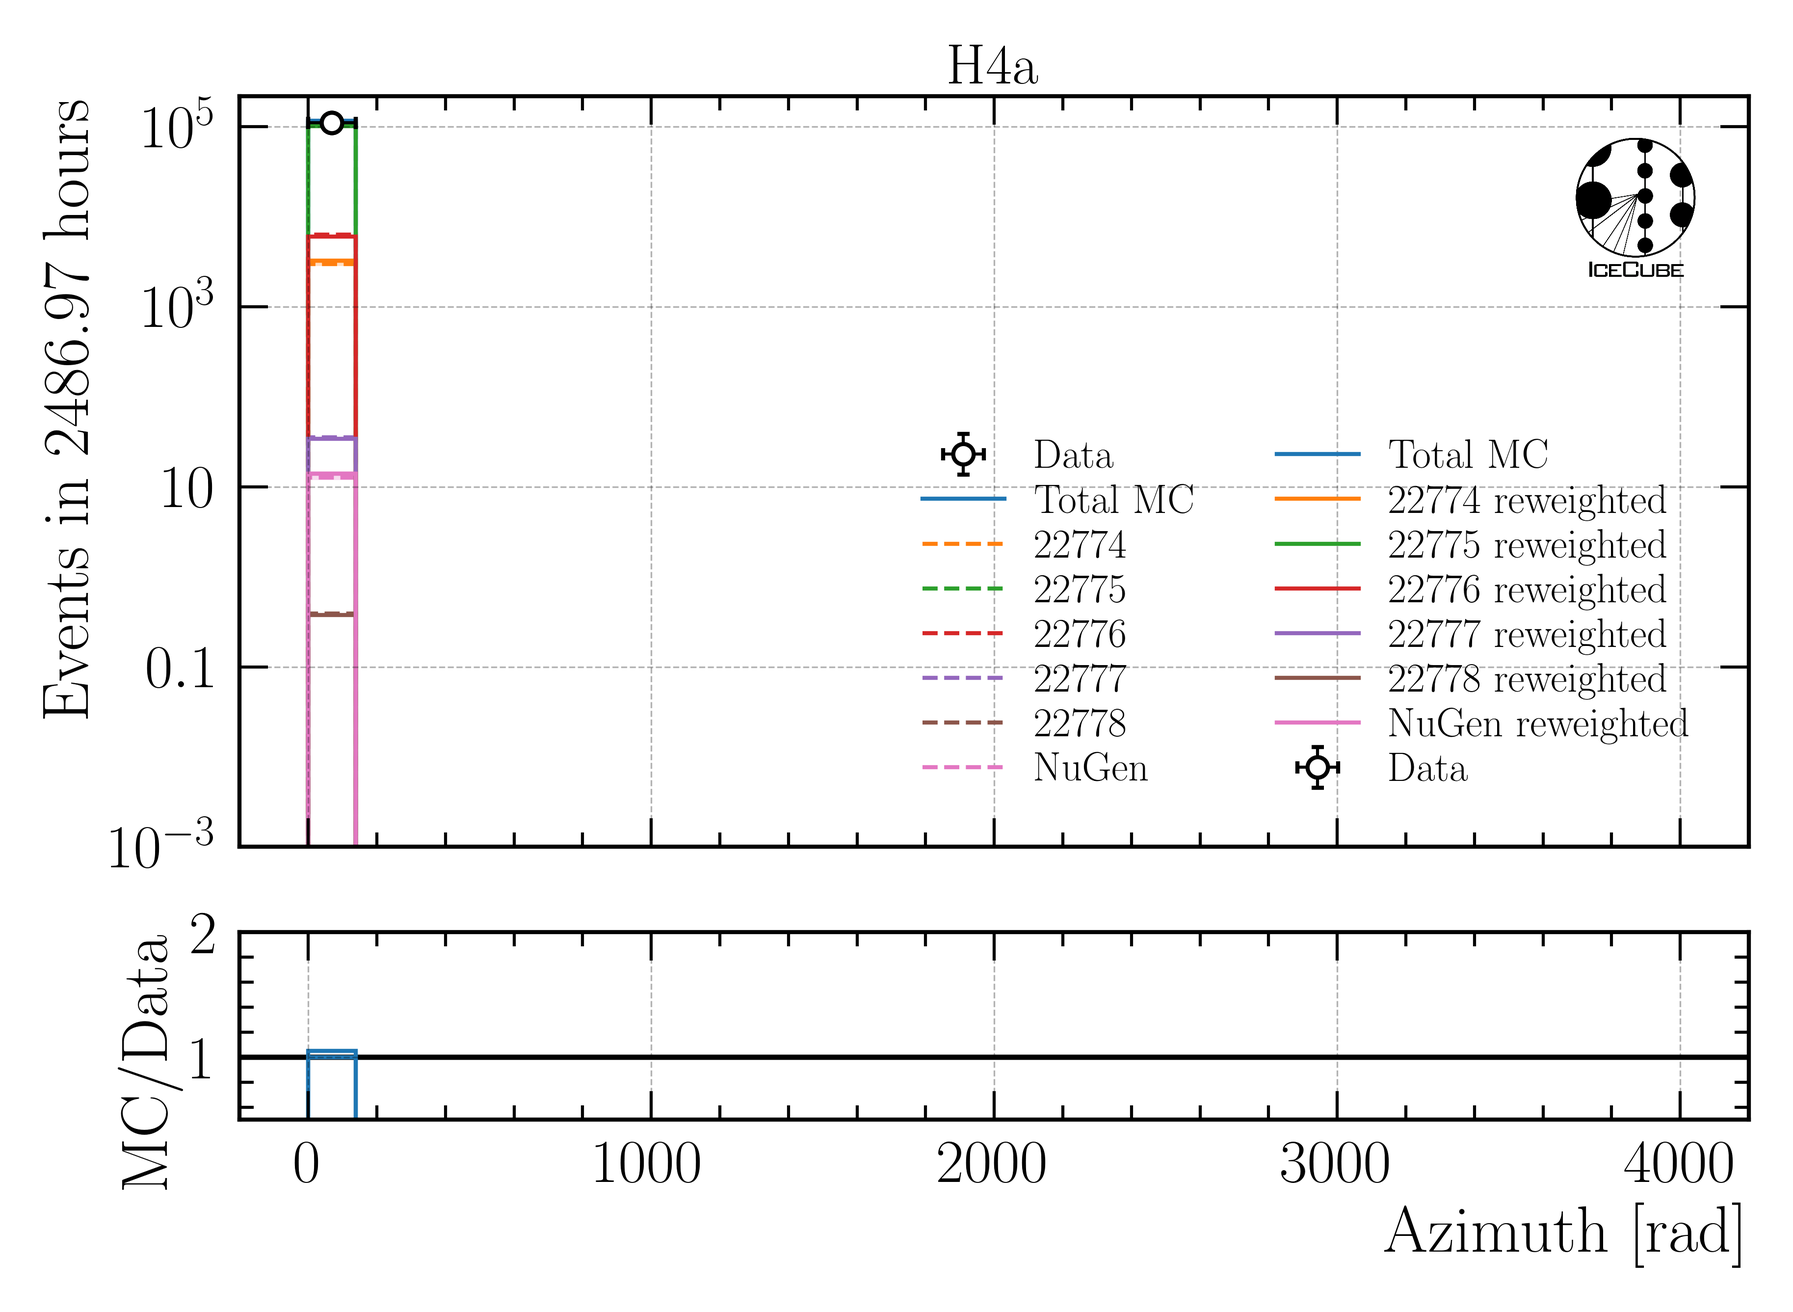
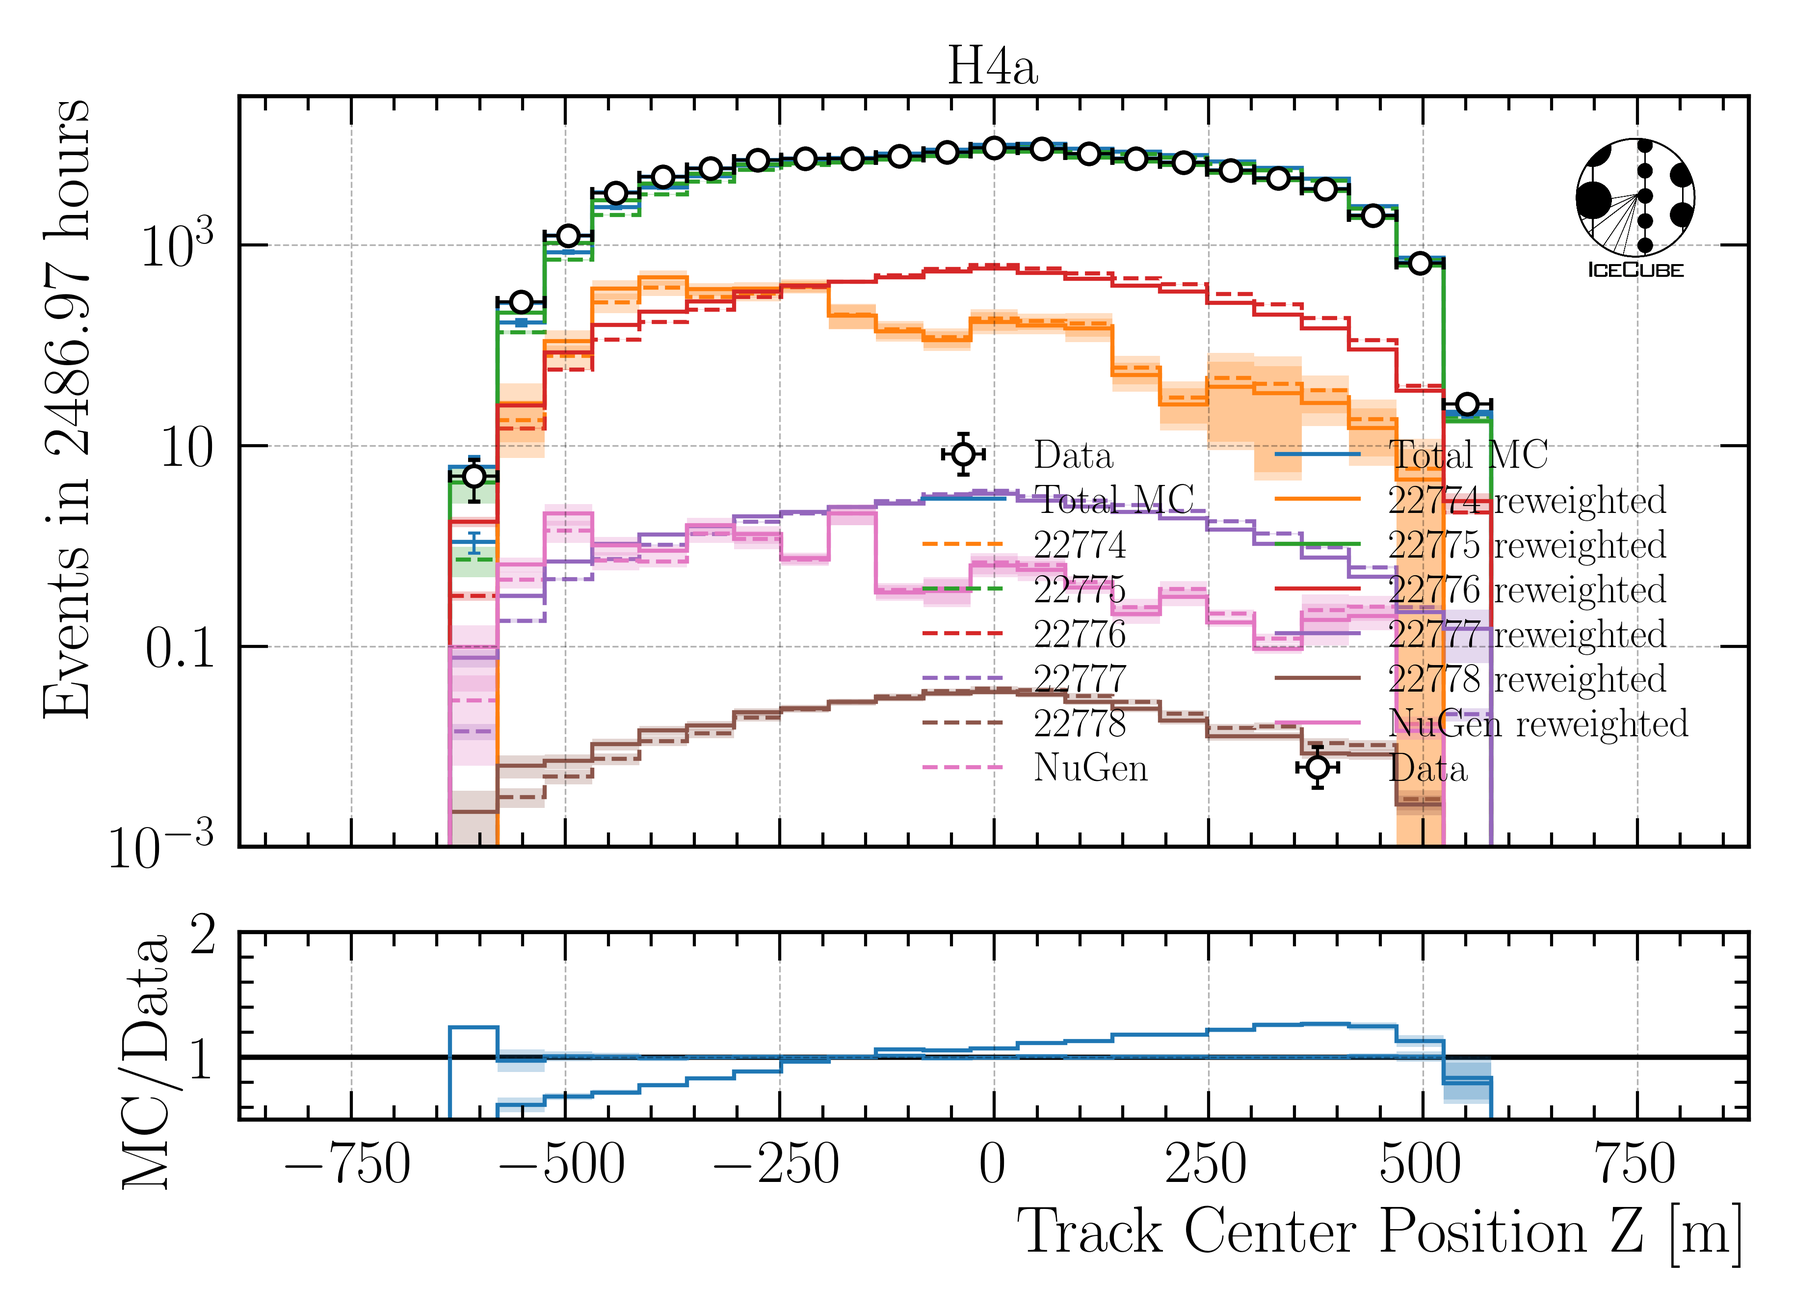
update scaled weights, z reweight

diff --git a/source/docs/Appendix.rst b/source/docs/Appendix.rst
@@ -1050,6 +1050,121 @@ Increase neutrino impact by factor 200
     : Center position z reconstructed by ``DeepLearningReco_track_geometry_9inputs_6ms_medium_01``.
 
 
+z-vertex re-weighting (L5)
+++++++++++++++++++++++++++
+
+Overall, the data-MC agreement is good. However, the z-vertex distribution shows a slope in the data. This slope is removed by re-weighting the z-vertex distribution. The re-weighting is done bin-wise to get a flat distribution in the data-MC agreement. This is shown in Figure :numref:`data_mc_L5_reweighting_z`. 
+
+.. _data_mc_L5_reweighting_z:
+.. figure:: images/plots/data_mc/data_mc_level5/reweighting_z.png
+    :width: 600px 
+
+    : Center position z reconstructed by ``DeepLearningReco_track_geometry_9inputs_6ms_medium_01``. The solid line represent a reweighted distribution of the z-vertex, the dashed line the original distribution. The reweighting is done bin-wise to get a flat distribution in the data-MC agreement. 
+
+By re-weighting the z-vertex distribution, the impact on other variables needs to be investigated. This is 
+done in the following plots for the several energy reconstructions and the cos zenith angle distribution. In all distributions, the re-weighting has only a small impact on the energy reconstructions and the cos zenith
+distribution. Additionally, the small impact leads to an improvement in the data-MC agreement. 
+
+.. figure:: images/plots/data_mc/data_mc_level5/data_mc_energy_hist_DeepLearningReco_leading_bundle_surface_leading_bundle_energy_OC_inputs9_6ms_large_log_02_bundle_energy_at_entry_GSF_z-reweighting.png
+    :width: 600px 
+
+    : Energy reconstruction by ``DeepLearningReco_leading_bundle_surface_leading_bundle_energy_OC_inputs9_6ms_large_log_02`` to check the impact of the z-vertex re-weighting.
+
+.. figure:: images/plots/data_mc/data_mc_level5/data_mc_energy_hist_DeepLearningReco_leading_bundle_surface_leading_bundle_energy_OC_inputs9_6ms_large_log_02_bundle_energy_at_entry_GST_z-reweighting.png
+    :width: 600px 
+
+    : Energy reconstruction by ``DeepLearningReco_leading_bundle_surface_leading_bundle_energy_OC_inputs9_6ms_large_log_02`` to check the impact of the z-vertex re-weighting.
+
+.. figure:: images/plots/data_mc/data_mc_level5/data_mc_energy_hist_DeepLearningReco_leading_bundle_surface_leading_bundle_energy_OC_inputs9_6ms_large_log_02_bundle_energy_at_entry_H3a_z-reweighting.png
+    :width: 600px 
+
+    : Energy reconstruction by ``DeepLearningReco_leading_bundle_surface_leading_bundle_energy_OC_inputs9_6ms_large_log_02`` to check the impact of the z-vertex re-weighting.
+
+.. figure:: images/plots/data_mc/data_mc_level5/data_mc_energy_hist_DeepLearningReco_leading_bundle_surface_leading_bundle_energy_OC_inputs9_6ms_large_log_02_bundle_energy_at_entry_H4a_z-reweighting.png
+    :width: 600px 
+
+    : Energy reconstruction by ``DeepLearningReco_leading_bundle_surface_leading_bundle_energy_OC_inputs9_6ms_large_log_02`` to check the impact of the z-vertex re-weighting.
+
+.. figure:: images/plots/data_mc/data_mc_level5/data_mc_energy_hist_DeepLearningReco_leading_bundle_surface_leading_bundle_energy_OC_inputs9_6ms_large_log_02_bundle_energy_in_mctree_GSF_z-reweighting.png
+    :width: 600px 
+
+    : Energy reconstruction by ``DeepLearningReco_leading_bundle_surface_leading_bundle_energy_OC_inputs9_6ms_large_log_02`` to check the impact of the z-vertex re-weighting.
+
+.. figure:: images/plots/data_mc/data_mc_level5/data_mc_energy_hist_DeepLearningReco_leading_bundle_surface_leading_bundle_energy_OC_inputs9_6ms_large_log_02_bundle_energy_in_mctree_GST_z-reweighting.png
+    :width: 600px 
+
+    : Energy reconstruction by ``DeepLearningReco_leading_bundle_surface_leading_bundle_energy_OC_inputs9_6ms_large_log_02`` to check the impact of the z-vertex re-weighting.
+
+.. figure:: images/plots/data_mc/data_mc_level5/data_mc_energy_hist_DeepLearningReco_leading_bundle_surface_leading_bundle_energy_OC_inputs9_6ms_large_log_02_bundle_energy_in_mctree_H3a_z-reweighting.png
+    :width: 600px 
+
+    : Energy reconstruction by ``DeepLearningReco_leading_bundle_surface_leading_bundle_energy_OC_inputs9_6ms_large_log_02`` to check the impact of the z-vertex re-weighting.
+
+.. figure:: images/plots/data_mc/data_mc_level5/data_mc_energy_hist_DeepLearningReco_leading_bundle_surface_leading_bundle_energy_OC_inputs9_6ms_large_log_02_bundle_energy_in_mctree_H4a_z-reweighting.png
+    :width: 600px 
+
+    : Energy reconstruction by ``DeepLearningReco_leading_bundle_surface_leading_bundle_energy_OC_inputs9_6ms_large_log_02`` to check the impact of the z-vertex re-weighting.
+
+.. figure:: images/plots/data_mc/data_mc_level5/data_mc_energy_hist_DeepLearningReco_leading_bundle_surface_leading_bundle_energy_OC_inputs9_6ms_large_log_02_entry_energy_GSF_z-reweighting.png
+    :width: 600px 
+
+    : Energy reconstruction by ``DeepLearningReco_leading_bundle_surface_leading_bundle_energy_OC_inputs9_6ms_large_log_02`` to check the impact of the z-vertex re-weighting.
+
+.. figure:: images/plots/data_mc/data_mc_level5/data_mc_energy_hist_DeepLearningReco_leading_bundle_surface_leading_bundle_energy_OC_inputs9_6ms_large_log_02_entry_energy_GST_z-reweighting.png
+    :width: 600px 
+
+    : Energy reconstruction by ``DeepLearningReco_leading_bundle_surface_leading_bundle_energy_OC_inputs9_6ms_large_log_02`` to check the impact of the z-vertex re-weighting.
+
+.. figure:: images/plots/data_mc/data_mc_level5/data_mc_energy_hist_DeepLearningReco_leading_bundle_surface_leading_bundle_energy_OC_inputs9_6ms_large_log_02_entry_energy_H3a_z-reweighting.png
+    :width: 600px 
+
+    : Energy reconstruction by ``DeepLearningReco_leading_bundle_surface_leading_bundle_energy_OC_inputs9_6ms_large_log_02`` to check the impact of the z-vertex re-weighting.
+
+.. figure:: images/plots/data_mc/data_mc_level5/data_mc_energy_hist_DeepLearningReco_leading_bundle_surface_leading_bundle_energy_OC_inputs9_6ms_large_log_02_entry_energy_H4a_z-reweighting.png
+    :width: 600px 
+
+    : Energy reconstruction by ``DeepLearningReco_leading_bundle_surface_leading_bundle_energy_OC_inputs9_6ms_large_log_02`` to check the impact of the z-vertex re-weighting.
+
+.. figure:: images/plots/data_mc/data_mc_level5/data_mc_energy_hist_DeepLearningReco_leading_bundle_surface_leading_bundle_energy_OC_inputs9_6ms_large_log_02_muon_energy_first_mctree_GSF_z-reweighting.png
+    :width: 600px 
+
+    : Energy reconstruction by ``DeepLearningReco_leading_bundle_surface_leading_bundle_energy_OC_inputs9_6ms_large_log_02`` to check the impact of the z-vertex re-weighting.
+
+.. figure:: images/plots/data_mc/data_mc_level5/data_mc_energy_hist_DeepLearningReco_leading_bundle_surface_leading_bundle_energy_OC_inputs9_6ms_large_log_02_muon_energy_first_mctree_GST_z-reweighting.png
+    :width: 600px 
+
+    : Energy reconstruction by ``DeepLearningReco_leading_bundle_surface_leading_bundle_energy_OC_inputs9_6ms_large_log_02`` to check the impact of the z-vertex re-weighting.
+
+.. figure:: images/plots/data_mc/data_mc_level5/data_mc_energy_hist_DeepLearningReco_leading_bundle_surface_leading_bundle_energy_OC_inputs9_6ms_large_log_02_muon_energy_first_mctree_H3a_z-reweighting.png
+    :width: 600px 
+
+    : Energy reconstruction by ``DeepLearningReco_leading_bundle_surface_leading_bundle_energy_OC_inputs9_6ms_large_log_02`` to check the impact of the z-vertex re-weighting.
+
+.. figure:: images/plots/data_mc/data_mc_level5/data_mc_energy_hist_DeepLearningReco_leading_bundle_surface_leading_bundle_energy_OC_inputs9_6ms_large_log_02_muon_energy_first_mctree_H4a_z-reweighting.png
+    :width: 600px 
+
+    : Energy reconstruction by ``DeepLearningReco_leading_bundle_surface_leading_bundle_energy_OC_inputs9_6ms_large_log_02`` to check the impact of the z-vertex re-weighting.
+
+.. figure:: images/plots/data_mc/data_mc_level5/data_mc_cos_zenith_hist_DeepLearningReco_direction_9inputs_6ms_medium_02_03_cos_zenith_GSF_z-reweighting.png
+    :width: 600px 
+
+    : Zenith reconstruction by ``DeepLearningReco_direction_9inputs_6ms_medium_02_03`` to check the impact of the z-vertex re-weighting.
+
+.. figure:: images/plots/data_mc/data_mc_level5/data_mc_cos_zenith_hist_DeepLearningReco_direction_9inputs_6ms_medium_02_03_cos_zenith_GST_z-reweighting.png
+    :width: 600px
+
+    : Zenith reconstruction by ``DeepLearningReco_direction_9inputs_6ms_medium_02_03`` to check the impact of the z-vertex re-weighting.
+
+.. figure:: images/plots/data_mc/data_mc_level5/data_mc_cos_zenith_hist_DeepLearningReco_direction_9inputs_6ms_medium_02_03_cos_zenith_H3a_z-reweighting.png
+    :width: 600px 
+
+    : Zenith reconstruction by ``DeepLearningReco_direction_9inputs_6ms_medium_02_03`` to check the impact of the z-vertex re-weighting.
+
+.. figure:: images/plots/data_mc/data_mc_level5/data_mc_cos_zenith_hist_DeepLearningReco_direction_9inputs_6ms_medium_02_03_cos_zenith_H4a_z-reweighting.png
+    :width: 600px 
+
+    : Zenith reconstruction by ``DeepLearningReco_direction_9inputs_6ms_medium_02_03`` to check the impact of the z-vertex re-weighting.
+
 Old unfolding plots
 +++++++++++++++++++
 

diff --git a/source/docs/QA.rst b/source/docs/QA.rst
@@ -8,24 +8,76 @@ February 7, 2025
 
 `Q (Dennis): Can you please show a zenith distribution with conv and prompt?`
 
-A: TODO 
+A: In the following, the cos(zenith) distribution is shown for the 4 different primary weightings. At first, the distributions include all produced charm particles. For the next four plots, 
+the charm component for both mesons and baryons is removed, as stated in the title. Overall, as visualized by the blue, dashed line, the prompt component contributes less than one order of magnitude to 
+the entire rate. Hence, the impact of the charm is nearly negligible. The plots are presented for level 5, thus after all cuts and selections.
+
+.. figure:: images/plots/QA/data_mc_cos_zenith_hist_DeepLearningReco_direction_9inputs_6ms_medium_02_03_cos_zenith_GSF_prompt_conv.png
+      :width: 600px
+   
+      : The cos(zenith) distribution is shown for GSF. The distributions include all produced particles.
+
+.. figure:: images/plots/QA/data_mc_cos_zenith_hist_DeepLearningReco_direction_9inputs_6ms_medium_02_03_cos_zenith_GST_prompt_conv.png
+      :width: 600px
+   
+      : The cos(zenith) distribution is shown for GST. The distributions include all produced particles.
+
+.. figure:: images/plots/QA/data_mc_cos_zenith_hist_DeepLearningReco_direction_9inputs_6ms_medium_02_03_cos_zenith_H3a_prompt_conv.png
+      :width: 600px
+   
+      : The cos(zenith) distribution is shown for H3a. The distributions include all produced particles.
+
+.. figure:: images/plots/QA/data_mc_cos_zenith_hist_DeepLearningReco_direction_9inputs_6ms_medium_02_03_cos_zenith_H4a_prompt_conv.png
+      :width: 600px
+   
+      : The cos(zenith) distribution is shown for H4a. The distributions include all produced particles.
+
+.. figure:: images/plots/QA/data_mc_cos_zenith_hist_DeepLearningReco_direction_9inputs_6ms_medium_02_03_cos_zenith_GSF_prompt_conv_no_charm.png
+      :width: 600px
+   
+      : The cos(zenith) distribution is shown for GSF. The distributions do not include muons produced by charmed particles.
+
+.. figure:: images/plots/QA/data_mc_cos_zenith_hist_DeepLearningReco_direction_9inputs_6ms_medium_02_03_cos_zenith_GST_prompt_conv_no_charm.png
+      :width: 600px
+   
+      : The cos(zenith) distribution is shown for GST. The distributions do not include muons produced by charmed particles.
+
+.. figure:: images/plots/QA/data_mc_cos_zenith_hist_DeepLearningReco_direction_9inputs_6ms_medium_02_03_cos_zenith_H3a_prompt_conv_no_charm.png
+      :width: 600px
+   
+      : The cos(zenith) distribution is shown for H3a. The distributions do not include muons produced by charmed particles.
+
+.. figure:: images/plots/QA/data_mc_cos_zenith_hist_DeepLearningReco_direction_9inputs_6ms_medium_02_03_cos_zenith_H4a_prompt_conv_no_charm.png
+      :width: 600px
+   
+      : The cos(zenith) distribution is shown for H4a. The distributions do not include muons produced by charmed particles.
+   
+----
 
 `Q (Dennis): Can you re-weight the prompt component to the ERS model and QCD predictions to get rid of the SIBYLL 2.3d only calculation?`
 
 A: TODO
 
+----
+
 `Q (Stef): Can you explain how the systematics were fit in the unfolding?`
 
 A: The systematics were fit as nuisance parameters. More details are provided :ref:`here <systematic_uncertainties_in_unfolding>`.
+
+----
 
 `Q (Hermann): How do you calculate the leading muon energy?`
 
 A: The leading muon energy is reconstructed by a neural network, as explained :ref:`here <CNN_reconstructions paragraph>`.
 
+----
+
 `Q (Hermann): What is the definition of prompt in the Berghaus paper, is it the same as in your analysis? What is the difference between all these definitions?`
 
 A: A detailed study of the different definitions of the prompt component 
 was performed by Ludwig Neste and can be found in his master's thesis `here <https://user-web.icecube.wisc.edu/~pgutjahr/PromptMuons/_static/downloads/2023_Master_Neste_Ludwig.pdf>`_. In my analysis, conventional muons arise from pions and kaons, while prompt muons arise from all other particles. This is very similar to a lifetime and decay length definition. In the past, prompt was often defined as muons arising from charmed particles, but there is a similar contribution from unflavoured mesons, as shown in :numref:`mceq_flux`.
+
+----
 
 September 25, 2024
 ==================
@@ -36,17 +88,21 @@ A: I don't use the z-vertex as an analysis variable, hence it should not affect 
 that correcting the z-distribution does not affect the energy reconstruction. The cos-zenith distribution is also
 not much affected, maybe there is even a small improvement. Currently, I don't correct the z-distribution in my analysis, but I checked if I could correct it and I wanted to check, if there is any impact of this correction.
 
+----
+
 `Q: (Agnieszka): The unfolding starts at 10 TeV, how can you be sure that at these energies you don't have any impact from muon bundles?`
 
 A: For the forward fit, I am interested in the prompt component. Since this component is not dominating at a leadingness of 1, I have never selected leading muons. For the unfolding, we are using a neural network 
 to reconstruct the leading muon energy. Of course, if the leading muon is entering the detector with a 
 high energy muon bundle, the reconstruction is difficult, but this smearing is considered in the unfolding.
 
+----
+
 `Q (Jakob): Have you tried to fit the systematics to fix the z-mismatch?`
 
 A: Not yet. 
 
-
+----
 
 March 18, 2024
 ==============

diff --git a/source/docs/Selection.rst b/source/docs/Selection.rst
@@ -254,6 +254,44 @@ for the primary energy.
 
     : Efficiency for the bundle energy at entry.
 
+In the following, the remaining rate after applying the MuonFilter and a bundle energy cut at surface of :math:`200\,\mathrm{TeV}` is shown in :numref:`level3_rate_200TeV`, 
+and for a cut of :math:`500\,\mathrm{TeV}` in :numref:`level3_rate_500TeV`.
+
+
+.. _level3_rate_200TeV:
+.. list-table:: Rates on level 3 after applying the muon filter and a :math:`200\,\mathrm{TeV}` bundle energy cut at surface for different primary models.
+  :header-rows: 1
+
+  * - Model
+    - H3a
+    - H4a
+    - GST
+    - GSF
+    - Exp
+  * - Level 5 / mHz
+    - 173.4
+    - 171.9
+    - 164.3
+    - 124.1
+    - 158.2
+
+.. _level3_rate_500TeV:
+.. list-table:: Rates on level 3 after applying the muon filter and a :math:`500\,\mathrm{TeV}` bundle energy cut at surface for different primary models.
+  :header-rows: 1
+
+  * - Model
+    - H3a
+    - H4a
+    - GST
+    - GSF
+    - Exp
+  * - Level 5 / mHz
+    - 21.62
+    - 21.09
+    - 20.92
+    - 14.07
+    - 18.55
+
 For our level 3, we apply the MuonFilter and a cut of :math:`500\,\mathrm{TeV}` on the bundle energy at surface. The remaining rate is :math:`144.3\,\mathrm{mHz}`. The network 
 ``DeepLearningReco_precut_surface_bundle_energy_3inputs_6ms_01`` is used. 
 
@@ -378,3 +416,23 @@ In :numref:`containment_cuts`, the cuts to improve data-MC based on the detector
      - 160 m
    * - length
      - 2000 m
+
+
+In :numref:`level5_rate`, the rates after applying the muon filter, the :math:`500\,\mathrm{TeV}` bundle energy cut at surface and the quality cuts for different primary models are shown.
+
+.. _level5_rate:
+.. list-table:: Rates on level 5 after applying the muon filter, the :math:`500\,\mathrm{TeV}` bundle energy cut at surface and the quality cuts for different primary models.
+  :header-rows: 1
+
+  * - Model
+    - H3a
+    - H4a
+    - GST
+    - GSF
+    - Exp 
+  * - Level 5 / mHz
+    - 15.16
+    - 14.76
+    - 14.79
+    - 9.68
+    - 12.36

diff --git a/source/docs/Data_MC_level5.rst b/source/docs/Data_MC_level5.rst
@@ -6,9 +6,33 @@ The data-mc comparisons are performed on level 5. From the years 2012, 2016 und 
 of :math:`2487\,\mathrm{h}`. The quality cuts used for level 5 are shown as a vertical black line in the plots.
 
 .. note::
-    In :numref:`level2_rate_muon_filter` the rates for the different primary flux models are shown. There is a mismatch of the normalization of the data and the MC.
+    In :numref:`level3_rate_500TeV` the rates for the different primary flux models are shown for level 3. There is a mismatch of the normalization of the data and the MC.
     For the data-mc comparisons, the following plots use scaled weights. Therefore, the weights are normalized to the data for each weighting. This helps to analyze the shape of the different primary flux models.
+    The rates and the rescaling factors are shown in :numref:`level3_rate_500TeV_with_scale_`.
     Additional data-mc plots to investigate cuts and all primary flux models are dumped `here <https://drive.google.com/drive/u/1/folders/1I2AD9wdWzaljAYM9xC5AESsnW1lxuq96>`_.
+
+.. _level3_rate_500TeV_with_scale_:
+.. list-table:: Rates on level 3 after applying the muon filter and a :math:`500\,\mathrm{TeV}` bundle energy cut at surface for different primary models. The rescale factors are the ratio between the experimental rate and the MC rate.
+  :header-rows: 1
+
+  * - Model
+    - H3a
+    - H4a
+    - GST
+    - GSF
+    - Exp
+  * - Level 5 / mHz
+    - 21.62
+    - 21.09
+    - 20.92
+    - 14.07
+    - 18.55
+  * - Rescale factor
+    - 0.86
+    - 0.88
+    - 0.89
+    - 1.32
+    - 
 
 Energy 
 ------

diff --git a/source/docs/Data_MC_level4.rst b/source/docs/Data_MC_level4.rst
@@ -6,9 +6,33 @@ The data-mc comparisons are performed on level 4. From the years 2012, 2016 und 
 of :math:`2487\,\mathrm{h}`. The quality cuts used for level 5 are shown as a vertical black line in the plots.
 
 .. note::
-    In :numref:`level2_rate_muon_filter` the rates for the different primary flux models are shown. There is a mismatch of the normalization of the data and the MC.
+    In :numref:`level3_rate_500TeV` the rates for the different primary flux models are shown for level 3. There is a mismatch of the normalization of the data and the MC.
     For the data-mc comparisons, the following plots use scaled weights. Therefore, the weights are normalized to the data for each weighting. This helps to analyze the shape of the different primary flux models.
+    The rates and the rescaling factors are shown in :numref:`level3_rate_500TeV_with_scale`.
     Additional data-mc plots to investigate cuts and all primary flux models are dumped `here <https://drive.google.com/drive/u/1/folders/1QGxdgnuxVyl9J4hnhMrVsSGG4uDjip6D>`_.
+
+.. _level3_rate_500TeV_with_scale:
+.. list-table:: Rates on level 3 after applying the muon filter and a :math:`500\,\mathrm{TeV}` bundle energy cut at surface for different primary models. The rescale factors are the ratio between the experimental rate and the MC rate.
+  :header-rows: 1
+
+  * - Model
+    - H3a
+    - H4a
+    - GST
+    - GSF
+    - Exp
+  * - Level 5 / mHz
+    - 21.62
+    - 21.09
+    - 20.92
+    - 14.07
+    - 18.55
+  * - Rescale factor
+    - 0.86
+    - 0.88
+    - 0.89
+    - 1.32
+    - 
 
 Energy 
 ------
